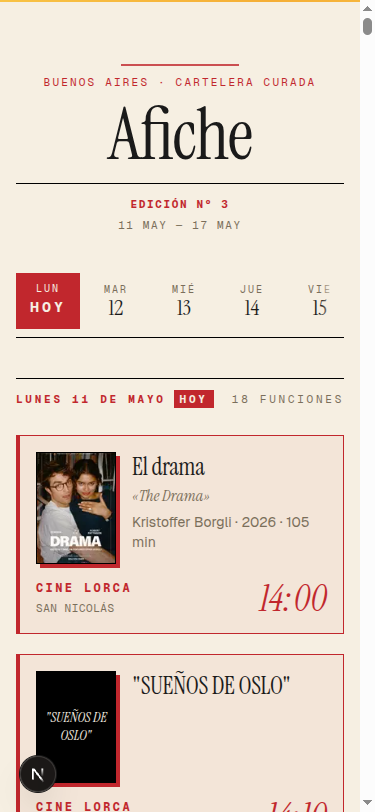
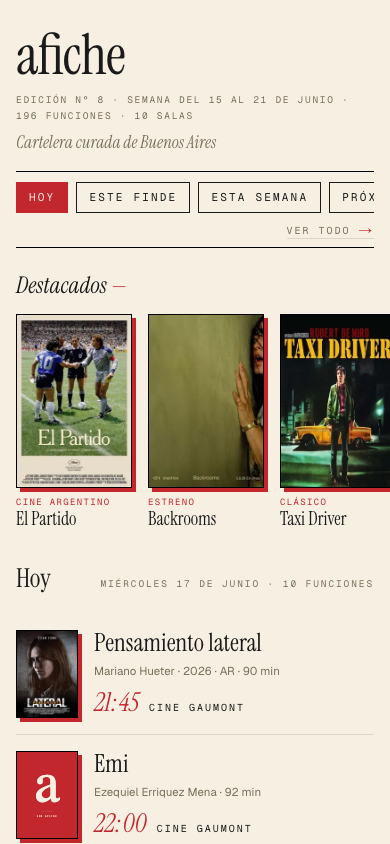
v0.3.7.2 docs: product README, architecture diagram, screenshots, PolyForm NC license
Product-focused README rewrite (Mermaid architecture diagram, refreshed + new screenshots), and LICENSE.md under PolyForm Noncommercial 1.0.0 (source-available, not open source). VERSION → 0.3.7.2. Docs/licensing only; no code change.

diff --git a/README.md b/README.md
@@ -2,38 +2,30 @@
 
 **Cartelera curada de Buenos Aires**
 
-Afiche aggregates the weekly programming of Buenos Aires' independent and repertory cinemas into one clean, editorial-feel cartelera. The homepage is a window-scoped, one-row-per-film view (**Hoy** / **Este finde** / **Esta semana** / **Próximamente**, selectable via `?ventana=`) over a "Destacados" curated band; the exhaustive day-by-day view (14-day rolling window + sticky date strip + "Próximamente" index) lives at `/cartelera`, one tap away via "Ver todo →". Built for people who already know the difference between a Saturday at Lugones and a Saturday at Hoyts.
+afiche pulls the weekly programming of Buenos Aires' independent and repertory cinemas into one clean, editorial-feel cartelera — one screen for the whole indie circuit, built for people who already know the difference between a Saturday at Lugones and a Saturday at Hoyts. **Live at [afiche.ar](https://afiche.ar)** — Next.js on Vercel, libSQL on Turso.
 
-![Afiche cartelera, desktop](docs/screenshots/hero-desktop.png)
+![afiche cartelera, desktop](docs/screenshots/hero-desktop.png)
 
-> [!NOTE]
-> Afiche is a personal project, **live at [afiche.ar](https://afiche.ar)** (Next.js on Vercel + libSQL on Turso). The cron that refreshes prod runs from the dev machine (`npm run scrape:prod`), not GitHub Actions — runner IPs get 403'd by Cloudflare at lumiton.ar and complejoteatral.gob.ar. See [DEPLOY.md](DEPLOY.md) for the full ops setup. You can also clone the repo and run everything locally against a SQLite file — same code path, no Turso token needed.
+<p align="center">
+  <img src="docs/screenshots/hero-mobile.png" width="320" alt="afiche cartelera on mobile" />
+</p>
 
 ## What it does
 
-- **Scrapes 10 indie cinemas** every run: Sala Lugones, MALBA (two schedule formats: dense-cycle + single-event prose), Cine York, Centro Cultural Munro, Lumiton, Cine Cosmos, Cine Gaumont (Espacio INCAA Km 0), CineArte Cacodelphia, Centro Cultural Borges, and Cine Lorca (whose programming lives on a single weekly poster image — extracted via a Claude vision call with an image-hash cache).
-- **Enriches each film via TMDB**: poster, backdrop, director, runtime, country, original title, Spanish synopsis (es-AR → es fallback), genres, top-billed cast. Smart merge logic handles the case where the same film surfaces with title drift across cinemas (different localizations, year-null collisions), keyed on `tmdb_id` after enrichment so duplicates collapse deterministically. Title-ambiguity guard + director-verification prevent silent wrong-matches on common-title films (e.g., the *Nosferatu* class: Eggers 2024 vs Herzog 1979 vs Murnau 1922 all share a Spanish title).
-- **Renders a window-scoped group-by-film homepage** — a server-rendered Next.js 16 page (`src/app/page.tsx`). It shows one row per *film* (not per showtime) for a relative time window — **Hoy** (default) / **Este finde** / **Esta semana** / **Próximamente**, selected via `?ventana=hoy|finde|semana|prox` (shareable; an unknown value falls back to `hoy`). A single-showtime film renders an inline `time · venue`; a multi-showtime film collapses to a `{n} funciones · {venue}` summary that tap-expands to its times. A full-bleed "Destacados" curated band of 0-4 poster cards sits above the film grid. Prod data drives this: 64% of films have a single showtime all week and 95% play a single venue, so the common row is one clean line. The window registry (`src/lib/windows.ts`) is the single source for the nav, the `?ventana=` validation, and the bounded query.
-- **The exhaustive day-by-day view lives at `/cartelera`** (`src/app/cartelera/page.tsx`) — the previous homepage, moved verbatim: a 14-day rolling window with full cards grouped by day, navigated by a sticky date strip (today is position 0, strip extends 13 days forward), plus a *Próximamente* flat text index for the longer tail, zine-back-page style. Reachable from the homepage's "Ver todo →". Chain cinemas (when we add them) get a de-emphasized typographic treatment, not a hidden toggle — curation is visible.
-- **Per-film pages at `/pelicula/<slug>`** — title block, optional 16:9 editorial still (TMDB backdrop, desktop-only), poster + synopsis, top-billed cast, and a cross-venue list of every upcoming screening of that film across BA. The "killer feature" of the page is cross-venue discovery — answers the "when *else* can I catch this?" question that no single venue's site can answer.
+- **One row per film, scoped to a time window.** The homepage groups every screening by *film* (not showtime) for a relative window — **Hoy** (default), **Este finde**, **Esta semana**, **Próximamente** — switchable via `?ventana=hoy|finde|semana|prox` (shareable; an unknown value falls back to `hoy`). A single-showtime film renders an inline `time · venue`; a multi-showtime film collapses to a `{n} funciones · {venue}` summary that taps open. Prod data earns the layout: 64% of films have one showtime all week and 95% play a single venue, so the common row is one clean line.
+- **A curated "Destacados" band.** Above the film grid sits a full-bleed row of 0–4 hand-picked poster cards. Curation is visible, not buried behind a toggle.
+- **An exhaustive day-by-day view at `/cartelera`.** One tap from the homepage ("Ver todo →"): a 14-day rolling window of full cards grouped by day, a sticky date strip, and a *Próximamente* text index for the longer tail.
+- **Per-film pages with cross-venue discovery.** `/pelicula/<slug>` gives each film a title block, an optional 16:9 editorial still, poster, synopsis, top-billed cast — and the killer feature: every upcoming screening of that film across BA, in one list. It answers "when *else* can I catch this?", which no single venue's own site can.
+- **Rich, deduplicated film cards.** Each film is enriched from TMDB (poster, backdrop, director, runtime, country, original title, Spanish synopsis, genres, cast). The same film surfacing with title drift across cinemas collapses to one entry, and a title-ambiguity guard keeps the three *Nosferatu*s apart.
 
-## What it does NOT do (yet)
+![A film's cross-venue screening list on /pelicula — every upcoming showtime across BA, one film](docs/screenshots/pelicula-cross-venue.png)
 
-- No filters or search — the cartelera *is* the index right now. Search (by title or director) is queued behind /pelicula/ usage data.
-- No cinema-specific pages — `/pelicula/<slug>` exists, but per-cinema pages don't.
-- No `/programa/<slug>` pages for curated cycles (Lugones Olivera-Aries, MALBA Cineclub Nocturna, etc.). Programs are denormalized text on screenings right now. Promotion to a first-class entity is queued behind a killer-feature trigger.
-- **Chains are out of scope** — Afiche covers the indie / repertory circuit only; Cinépolis and other multiplexes are intentionally excluded. This is the indie-circuit cartelera, not all of BA cinema.
-- No dark mode — the editorial cream + carmine palette is the brand.
+## What it doesn't do (yet)
 
-## Stack
-
-- **Next.js 16** (App Router, Server Components, force-dynamic on the cartelera + film pages)
-- **React 19** + **Tailwind CSS 4** (design tokens via `@theme`, see [DESIGN.md](DESIGN.md))
-- **Geist** (sans, body) + **Geist Mono** (caps, eyebrows) + **Instrument Serif** (display: masthead, day banners, film titles, italic time accents)
-- **Drizzle ORM** + **libSQL** (SQLite locally, Turso in production)
-- **cheerio** for HTML scraping; **Claude vision** (`claude-sonnet-4-6`) for Cine Lorca's image-only weekly poster, with image-hash cache
-- **Vitest** for testing (~645 tests across 35 test files: date/window helpers, group-by-film grouping, scraper providers, ingest, run logging, TMDB enrichment, layout invariants)
-- **TMDB API** for film enrichment
+- **No search or filters** — the cartelera *is* the index. Search (title + director) is queued behind /pelicula/ usage data.
+- **No per-cinema programming pages**, and no `/programa/<slug>` pages for curated cycles (Lugones Olivera-Aries, MALBA Cineclub Nocturna). Cycles are denormalized text on screenings for now.
+- **No chains.** afiche covers the indie / repertory circuit only; Cinépolis and the multiplexes are intentionally out. This is the indie-circuit cartelera, not all of BA cinema.
+- **No dark mode** — the editorial cream + carmine palette is the brand.
 
 ## Cinemas covered
 
@@ -50,160 +42,67 @@ Afiche aggregates the weekly programming of Buenos Aires' independent and repert
 | CineArte Cacodelphia | San Nicolás | indie / repertory | cineartecacodelphia.com.ar (adro.studio JSON API) |
 | Centro Cultural Borges | San Nicolás | indie / cultural center | centroculturalborges.gob.ar |
 
-Each cinema has a dedicated provider module in [`src/providers/`](src/providers) that knows that venue's data shape. Three of the ten (Cine York, Munro, Lumiton) share `lumiton-agenda.ts` because Lumiton operates the three venues from one combined agenda page. Cine Lorca is the odd one out: its weekly programming lives on a single poster image (no HTML schedule, no API), so its provider downloads the image, hashes it for cache lookup, and on cache miss runs a Claude vision call (`temperature: 0`, structured JSON output) to extract the showtimes.
+## Architecture
 
-## Running locally
+```mermaid
+graph LR
+  V["10 venue sites<br/>lugones · malba · gaumont<br/>lorca · cosmos · york · …"]
 
-**Prerequisites:** Node 22 (there's an `.nvmrc` — `nvm use` will pick it up).
+  subgraph pipeline["Scrape pipeline · scrape-prod.sh (residential IP)"]
+    R["run.ts<br/>orchestrator"]
+    P["Provider.fetch() x10<br/>→ ScrapedScreening[]"]
+    I["ingest()<br/>upsert films · replace future<br/>screenings · enrich"]
+  end
 
-```bash
-# 1. Install deps
-npm install
+  TMDB["TMDB API<br/>match (similarity) + enrich"]
+  D[("Turso / SQLite · Drizzle<br/>cinemas · films · screenings<br/>providers · scrapeRuns")]
 
-# 1b. Wire up the pre-push hook (typecheck + lint + format + tests).
-# One-time per clone; catches tsc errors and unformatted code before
-# they reach Vercel. Skip a run with `git push --no-verify`.
-git config core.hooksPath .githooks
+  subgraph web["Next.js 16 · RSC on Vercel"]
+    Q["queries.ts"]
+    PAGES["/ · /cartelera<br/>/pelicula/[slug] · /sala/[id]"]
+    ADMIN["/admin<br/>signed-cookie auth<br/>manual TMDB match"]
+    REV["/api/revalidate"]
+  end
 
-# 2. Set up env
-cp .env.example .env.local
-# then edit .env.local:
-#   DATABASE_URL=file:./local.db
-#   TMDB_API_TOKEN=<get one at themoviedb.org/settings/api>
-#   ANTHROPIC_API_KEY=<get one at console.anthropic.com> (only for Cine Lorca)
+  U(("visitor"))
 
-# 3. Migrate the schema + seed baseline data
-npm run db:generate    # generate any pending Drizzle migrations
-npm run db:migrate     # apply them to local.db
-npm run db:seed-cinemas  # seeds cinemas table (safe to run repeatedly)
-
-# 4. Run the scraper to populate real programming
-npm run db:scrape
-
-# 5. Start the dev server
-npm run dev
-# → http://localhost:3000
+  V -->|HTML / JSON| P
+  R -->|drives| P
+  P -->|screenings| I
+  I <-->|lookup + enrich| TMDB
+  I -->|upsert| D
+  R -.->|POST when done| REV
+  REV -.->|revalidate ISR| PAGES
+  D --> Q --> PAGES
+  ADMIN <-->|read / fix| D
+  U --> PAGES
 ```
 
-## Architecture, briefly
+**Getting data in.** There's no cloud cron. `scrape-prod.sh` runs from a residential IP on the dev machine, because lumiton.ar and complejoteatral.gob.ar 403 datacenter IPs and a GitHub Actions runner can't reach them. It walks all 10 providers (`src/scrapers/run.ts`) and ingests each through `src/scrapers/ingest.ts` — upsert films → replace that cinema's future screenings → TMDB-enrich. Every provider is pure `() → ScrapedScreening[]`. Three of the ten (Cine York, Munro, Lumiton) share `lumiton-agenda.ts` because one Lumiton agenda page drives all three venues; Cine Lorca has no HTML schedule at all — its week lives on a single poster image, so its provider hashes the image and, on a cache miss, runs a Claude vision call (`temperature: 0`, structured JSON) to read the showtimes.
 
-```
-┌─────────────────────────────────────────────────────────────────┐
-│  npm run db:scrape                                              │
-│                                                                 │
-│  ┌────────────────┐    ┌────────────────┐    ┌────────────────┐ │
-│  │ Provider       │─┬─▶│ Ingest         │───▶│ TMDB enrich    │ │
-│  │ (per cinema)   │ │  │ (upsert films  │    │ (poster, dir,  │ │
-│  │                │ │  │  + screenings) │    │  runtime, cast,│ │
-│  └────────────────┘ │  └────────────────┘    │  synopsis,     │ │
-│        ×7           │                        │  ambiguity     │ │
-│                     │                        │  guard + dir.  │ │
-│                     │                        │  verification) │ │
-│                     │                        └────────────────┘ │
-│                     ▼                                           │
-│              ┌──────────────┐                                   │
-│              │ scrape_runs  │   ← observability: one row per    │
-│              │ (audit log)  │     (cinema, run), status, counts │
-│              └──────────────┘                                   │
-└─────────────────────────────────────────────────────────────────┘
-                              │
-                              ▼
-┌─────────────────────────────────────────────────────────────────┐
-│  Next.js server component (src/app/page.tsx) — homepage         │
-│                                                                 │
-│  getWindowScreeningsByFilm(window, now) → one row per FILM,     │
-│                                  bounded by ?ventana= window    │
-│  getFeaturedFilms(now)         → "Destacados" curated band      │
-│  getJsonLdScreenings(now)      → structured-data feed           │
-│                                                                 │
-│  Group-by-film: single-showtime → inline time·venue; multi →   │
-│  tap-expand disclosure. Window registry: src/lib/windows.ts.   │
-└─────────────────────────────────────────────────────────────────┘
-                              │
-                              ▼
-┌─────────────────────────────────────────────────────────────────┐
-│  Next.js server component (src/app/cartelera/page.tsx)          │
-│                                                                 │
-│  getTwoWeeksScreenings(now)    → Tier 1 · 14-day rolling window │
-│  getUpcomingScreenings(now)    → Tier 2 · Próximamente          │
-│  getLastScreeningPerFilm(now)  → ÚLTIMA FUNCIÓN pill anchor     │
-│                                                                 │
-│  The exhaustive day-by-day view: sticky-date-strip navigation, │
-│  full cards grouped by day in tier 1, text index in tier 2.    │
-└─────────────────────────────────────────────────────────────────┘
-                              │
-                              ▼
-┌─────────────────────────────────────────────────────────────────┐
-│  Next.js server component (src/app/pelicula/[slug]/page.tsx)    │
-│                                                                 │
-│  getUpcomingScreeningsByFilm(slug, now)                         │
-│                                                                 │
-│  Cross-venue all-screenings list — the "when else?" answer.     │
-│  Same code paths reach a `/pelicula/<slug>` URL from any        │
-│  cartelera card; one tap takes you there.                       │
-└─────────────────────────────────────────────────────────────────┘
-```
+**Staying correct.** Ingest is idempotent (unique index on `(scraped_title, scraped_year)`) and self-healing. A film that shows up with title drift across cinemas — different localizations, year-null collisions — collapses to one row keyed on `tmdb_id` after enrichment, and a title-ambiguity guard plus director verification stop silent wrong-matches on common titles (the *Nosferatu* class: Eggers 2024 vs Herzog 1979 vs Murnau 1922 all share a Spanish title). Each run records one `scrape_runs` row per `(cinema, run)` with status + counts; when it finishes, `scrape-prod.sh` POSTs `/api/revalidate` so the deployed pages pick up the fresh data.
 
-Each provider returns a flat `ScrapedScreening[]`. The ingest layer handles idempotency (unique index on `(scraped_title, scraped_year)`), retry semantics (`match_source='none-attempted'` after a failed TMDB match so we don't re-query forever), and year-resolution merges (if Lumiton scrapes *Lawrence de Arabia* with year=null and Lugones scraped it with year=1962, they reconcile into one row on TMDB enrichment via `tmdb_id` collision).
+**Getting data out.** Every serving route reads the same DB through `src/db/queries.ts`. The homepage (`src/app/page.tsx`) calls `getWindowScreeningsByFilm` (one row per film, bounded by `?ventana=`), `getFeaturedFilms` (the *Destacados* band), and `getJsonLdScreenings` (structured-data feed). `/cartelera` (`src/app/cartelera/page.tsx`) calls `getTwoWeeksScreenings` (the 14-day window), `getUpcomingScreenings` (*Próximamente*), and `getLastScreeningPerFilm` (the ÚLTIMA FUNCIÓN anchor). `/pelicula/[slug]` calls `getUpcomingScreeningsByFilm` for the cross-venue list. The window registry (`src/lib/windows.ts`) is the single source for the nav, the `?ventana=` validation, and the bounded query.
 
-The homepage is a window-scoped, one-row-per-film view anchored to BA "today" (default window **Hoy**); `/cartelera` is the exhaustive 2-tier view — *Tier 1* (full cards in a 14-day rolling window, the decision layer) and *Próximamente* (text index for everything beyond). Both read the same DB and revalidate together after a scrape. See [DESIGN.md](DESIGN.md) for the full visual hierarchy and [CHANGELOG.md](CHANGELOG.md) for the per-release version history.
+## Tech stack
 
-## Tests
-
-```bash
-npm test                 # watch mode
-npm run test:coverage    # one-shot with v8 coverage
-```
-
-~645 tests across 35 test files. The homepage-redesign suites:
-
-- `src/db/group-by-film.test.ts` — film grouping, next-catchable sort, past-film sink ordering
-- `src/lib/windows.test.ts` — window registry + `?ventana=` resolution (unknown → `hoy`) + render modes
-- `src/app/_components/film-row-model.test.ts` — single vs multi-showtime row model, disclosure summary
-- `src/lib/film-meta.test.ts` — film metadata line (drops 0/null runtime cleanly, ISSUE-001 guard)
-
-The rest:
-
-- `src/app/layout-invariants.test.ts` — flex-item width contracts (mobile-overflow guard) + line-clamp/display-utility co-location guard
-- `src/db/queries.test.ts` — query-layer behavior (visibility windows, deduplication)
-- `src/lib/iso-week.test.ts` — ISO-week anchoring in BA timezone (edition Nº arithmetic)
-- `src/lib/date-ranges.test.ts` — tier query-bound helpers (14-day window / upcoming)
-- `src/lib/slug.test.ts` — slug generation contract
-- `src/providers/lugones.test.ts` — complejoteatral.gob.ar parser + cross-month date-range regression
-- `src/providers/lumiton-agenda.test.ts` — shared agenda parser, venue filtering, detail-page enrichment
-- `src/providers/cine-york.test.ts` — Lumiton agenda filtering + extraction edge cases
-- `src/providers/cine-cosmos.test.ts` — cinecosmos-uba.com.ar parser
-- `src/providers/cine-lorca.test.ts` — VLM showtime extraction (poster JSON contract)
-- `src/providers/cine-lorca-cache.test.ts` — image-hash cache invalidation (avoids re-billing the same poster)
-- `src/providers/malba.test.ts` — S1 (dense-cycle) + S2 (single-event / grouped-times) strategies
-- `src/scrapers/ingest.test.ts` — upsert, TMDB retry semantics, merge-on-collision via tmdb_id
-- `src/scrapers/run-log.test.ts` — `scrape_runs` observability lifecycle
-- `src/tmdb/match.test.ts` — title+year matcher, title-ambiguity guard, popularity tiebreak
-- `src/tmdb/enrich.test.ts` — enrichment pipeline + director-verification rescue
-
-Fixtures under [`test/fixtures/`](test/fixtures) are real HTML captures from each source (and a real poster image for Cine Lorca), stored verbatim so tests don't hit the network or burn vision-call credits.
+- **Next.js 16** — App Router, React Server Components, `force-dynamic` on the cartelera + film pages
+- **React 19 + Tailwind CSS 4** — design tokens via `@theme` (see [DESIGN.md](DESIGN.md))
+- **Type** — Geist (body) + Geist Mono (eyebrows, caps) + Instrument Serif (masthead, day banners, film titles, italic time accents)
+- **Drizzle ORM + libSQL** — SQLite locally, Turso in production
+- **cheerio** for HTML scraping; **Claude vision** (`claude-sonnet-4-6`) for Cine Lorca's image-only poster, image-hash cached
+- **TMDB API** for film metadata, posters, and editorial stills
+- **Vitest** — ~645 tests across 35 files (scraper providers, ingest, TMDB enrichment, date/window helpers, layout invariants); fixtures are real HTML captures, so tests never hit the network or burn vision credits
+- **Vercel** for hosting + ISR revalidation
 
 ## Credits
 
-This product uses the TMDB API but is not endorsed or certified by TMDB.
-
-[TMDB](https://www.themoviedb.org) provides the film metadata, poster images, and editorial stills rendered alongside each screening. Afiche hotlinks TMDB's CDN (image.tmdb.org/t/p/w342{poster_path}) rather than re-hosting, per TMDB's best-practice guidance, and never resells or commercially redistributes TMDB data.
-
-Cine Lorca's image-only weekly programming is extracted via [Anthropic's Claude](https://www.anthropic.com/) vision API. The image is hashed and the result is cached locally, so a given poster is parsed at most once across the project's lifetime.
-
-## Roadmap
-
-See [TODOS.md](TODOS.md) for the full backlog. The big structural items:
-
-1. **Indexability strategy for `/pelicula/<slug>`** — the per-film pages are currently `noindex` to protect against flap-404 SEO penalties when films leave BA. Question is whether to pivot to indexable + persistent pages (canonical BA cinema index) or stay on the curated-channels-only path. Captured as TODO #19 with the full decision factors; revisit via `/office-hours`. (Multiplex chains like Cinépolis remain intentionally out of scope — see "What it does NOT do".)
-2. **MALBA recurring-weekly cycles** (S3) — the parser handles dense-cycle (S1) and single-event prose (S2) but not "Sábados a las 18:00" recurrence grammars. Trigger-gated on real warning data from `scrape_runs`.
-
-Plus smaller polish items: a `/admin/runs` log viewer, .ics calendar export per screening, expanded TMDB enrichment (prizes/tagline), card-composition rethink, X presence + newsletter (#16, #17).
+afiche uses the TMDB API but is not endorsed or certified by TMDB. [TMDB](https://www.themoviedb.org) provides the film metadata, poster images, and editorial stills rendered alongside each screening. afiche hotlinks TMDB's CDN (`image.tmdb.org/t/p/...`) rather than re-hosting, per TMDB's best-practice guidance, and never resells or commercially redistributes TMDB data. Cine Lorca's image-only weekly programming is read via [Anthropic's Claude](https://www.anthropic.com/) vision API; the image is hashed and the result cached locally, so a given poster is parsed at most once.
 
 ## License
 
-No license file yet — for the moment treat this as "all rights reserved" by default. Will add MIT (or similar) shortly.
+Licensed under the [PolyForm Noncommercial License 1.0.0](LICENSE.md) (source-available). Noncommercial use is permitted; commercial use is reserved to the author.
 
-## Contact
+---
 
-Built by [Benjamin Delasoie](https://github.com/benjamindelasoie). Issues welcome on GitHub if you're a BA cinephile who notices a screening Afiche missed or got wrong.
+Built by [Benjamin Delasoie](https://github.com/benjamindelasoie). Spot a screening afiche missed or got wrong? Issues welcome.

diff --git a/LICENSE.md b/LICENSE.md
@@ -1,0 +1,86 @@
+afiche
+
+Copyright 2026 Benjamin Delasoie
+
+Required Notice: Copyright 2026 Benjamin Delasoie (https://afiche.ar)
+
+afiche is source-available, not open source. You may use, run, self-host, and
+modify it for any noncommercial purpose under the terms below. Commercial use is
+reserved to the author. The full terms are the verbatim PolyForm Noncommercial
+License 1.0.0, reproduced below.
+
+----
+
+# PolyForm Noncommercial License 1.0.0
+
+<https://polyformproject.org/licenses/noncommercial/1.0.0>
+
+## Acceptance
+
+In order to get any license under these terms, you must agree to them as both strict obligations and conditions to all your licenses.
+
+## Copyright License
+
+The licensor grants you a copyright license for the software to do everything you might do with the software that would otherwise infringe the licensor's copyright in it for any permitted purpose.  However, you may only distribute the software according to [Distribution License](#distribution-license) and make changes or new works based on the software according to [Changes and New Works License](#changes-and-new-works-license).
+
+## Distribution License
+
+The licensor grants you an additional copyright license to distribute copies of the software.  Your license to distribute covers distributing the software with changes and new works permitted by [Changes and New Works License](#changes-and-new-works-license).
+
+## Notices
+
+You must ensure that anyone who gets a copy of any part of the software from you also gets a copy of these terms or the URL for them above, as well as copies of any plain-text lines beginning with `Required Notice:` that the licensor provided with the software.  For example:
+
+> Required Notice: Copyright Yoyodyne, Inc. (http://example.com)
+
+## Changes and New Works License
+
+The licensor grants you an additional copyright license to make changes and new works based on the software for any permitted purpose.
+
+## Patent License
+
+The licensor grants you a patent license for the software that covers patent claims the licensor can license, or becomes able to license, that you would infringe by using the software.
+
+## Noncommercial Purposes
+
+Any noncommercial purpose is a permitted purpose.
+
+## Personal Uses
+
+Personal use for research, experiment, and testing for the benefit of public knowledge, personal study, private entertainment, hobby projects, amateur pursuits, or religious observance, without any anticipated commercial application, is use for a permitted purpose.
+
+## Noncommercial Organizations
+
+Use by any charitable organization, educational institution, public research organization, public safety or health organization, environmental protection organization, or government institution is use for a permitted purpose regardless of the source of funding or obligations resulting from the funding.
+
+## Fair Use
+
+You may have "fair use" rights for the software under the law. These terms do not limit them.
+
+## No Other Rights
+
+These terms do not allow you to sublicense or transfer any of your licenses to anyone else, or prevent the licensor from granting licenses to anyone else.  These terms do not imply any other licenses.
+
+## Patent Defense
+
+If you make any written claim that the software infringes or contributes to infringement of any patent, your patent license for the software granted under these terms ends immediately. If your company makes such a claim, your patent license ends immediately for work on behalf of your company.
+
+## Violations
+
+The first time you are notified in writing that you have violated any of these terms, or done anything with the software not covered by your licenses, your licenses can nonetheless continue if you come into full compliance with these terms, and take practical steps to correct past violations, within 32 days of receiving notice.  Otherwise, all your licenses end immediately.
+
+## No Liability
+
+***As far as the law allows, the software comes as is, without any warranty or condition, and the licensor will not be liable to you for any damages arising out of these terms or the use or nature of the software, under any kind of legal claim.***
+
+## Definitions
+
+The **licensor** is the individual or entity offering these terms, and the **software** is the software the licensor makes available under these terms.
+
+**You** refers to the individual or entity agreeing to these terms.
+
+**Your company** is any legal entity, sole proprietorship, or other kind of organization that you work for, plus all organizations that have control over, are under the control of, or are under common control with that organization.  **Control** means ownership of substantially all the assets of an entity, or the power to direct its management and policies by vote, contract, or otherwise.  Control can be direct or indirect.
+
+**Your licenses** are all the licenses granted to you for the software under these terms.
+
+**Use** means anything you do with the software requiring one of your licenses.

diff --git a/CHANGELOG.md b/CHANGELOG.md
@@ -2,6 +2,20 @@
 
 All notable changes to Afiche are documented here.
 
+## [0.3.7.2] - 2026-06-17
+
+Docs + licensing only. No code or behaviour change.
+
+### Added
+
+- **License: PolyForm Noncommercial 1.0.0** (`LICENSE.md`). afiche is now formally **source-available, not open source**: read, run, self-host, and modify for any noncommercial purpose; commercial use is reserved to the author. Replaces the stale "will add MIT" placeholder, which would have permitted commercial clones.
+- **Architecture diagram in the README** — a GitHub-native Mermaid fence (10 scrapers → `ingest` → TMDB → Turso → Next.js serving + `/admin` + `/api/revalidate`), replacing the hand-drawn ASCII art that still said "×7". The editable `.mmd` source + an `.excalidraw` scene live in `diagrams/`.
+- **Refreshed screenshots** from live afiche.ar (desktop + mobile homepage) plus a new `/pelicula` cross-venue screening shot.
+
+### Changed
+
+- **README rewritten around product, architecture, and tech stack.** Dropped the run-locally / fork tutorial, the test-command section, and the roadmap; folded a one-line testing note into the stack. Applied the lowercase `afiche` wordmark throughout.
+
 ## [0.3.7.1] - 2026-06-14
 
 ### Changed
